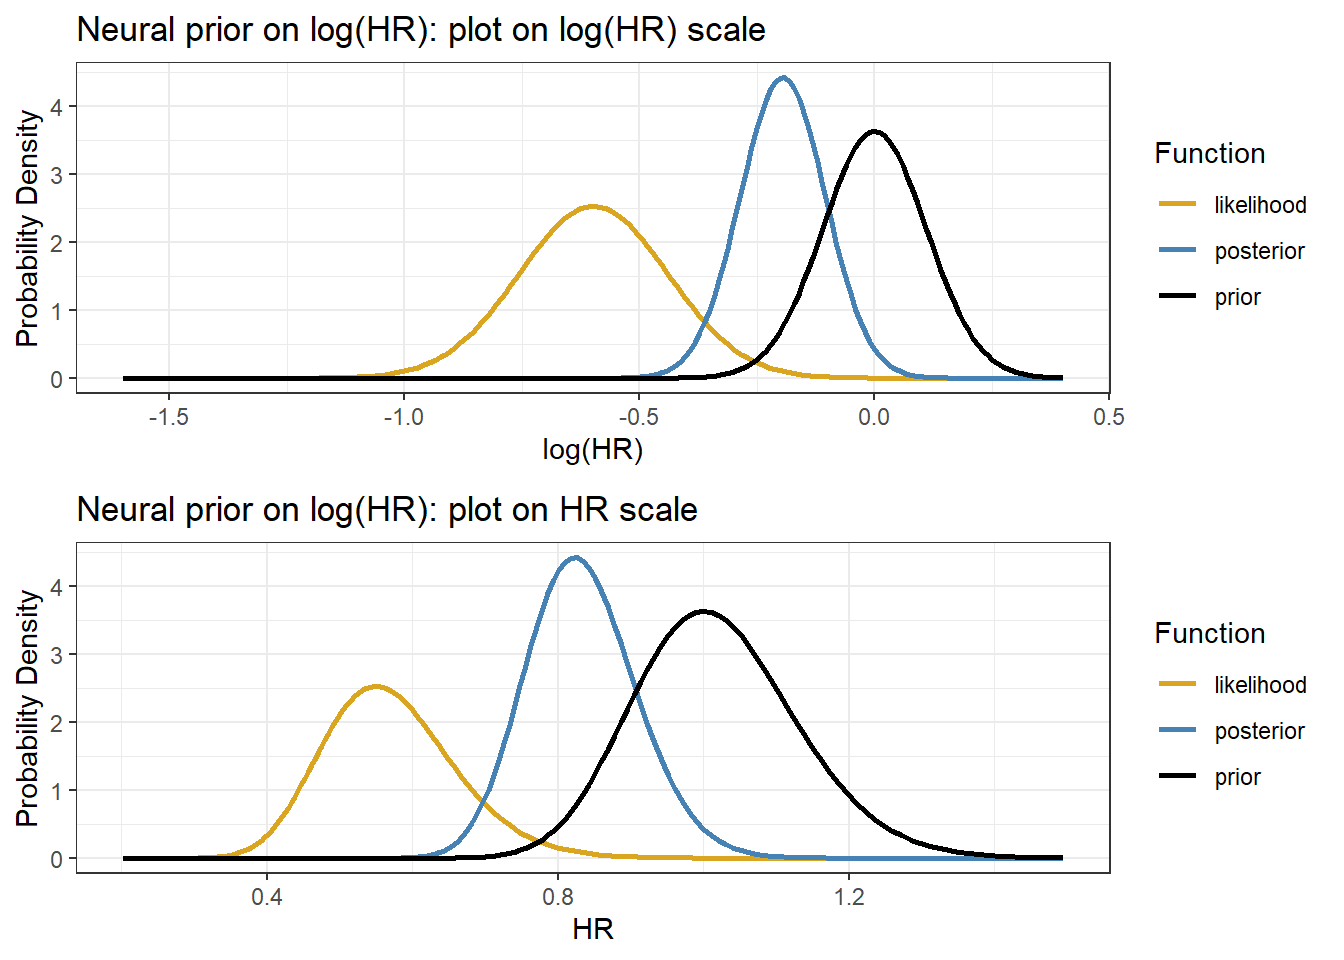
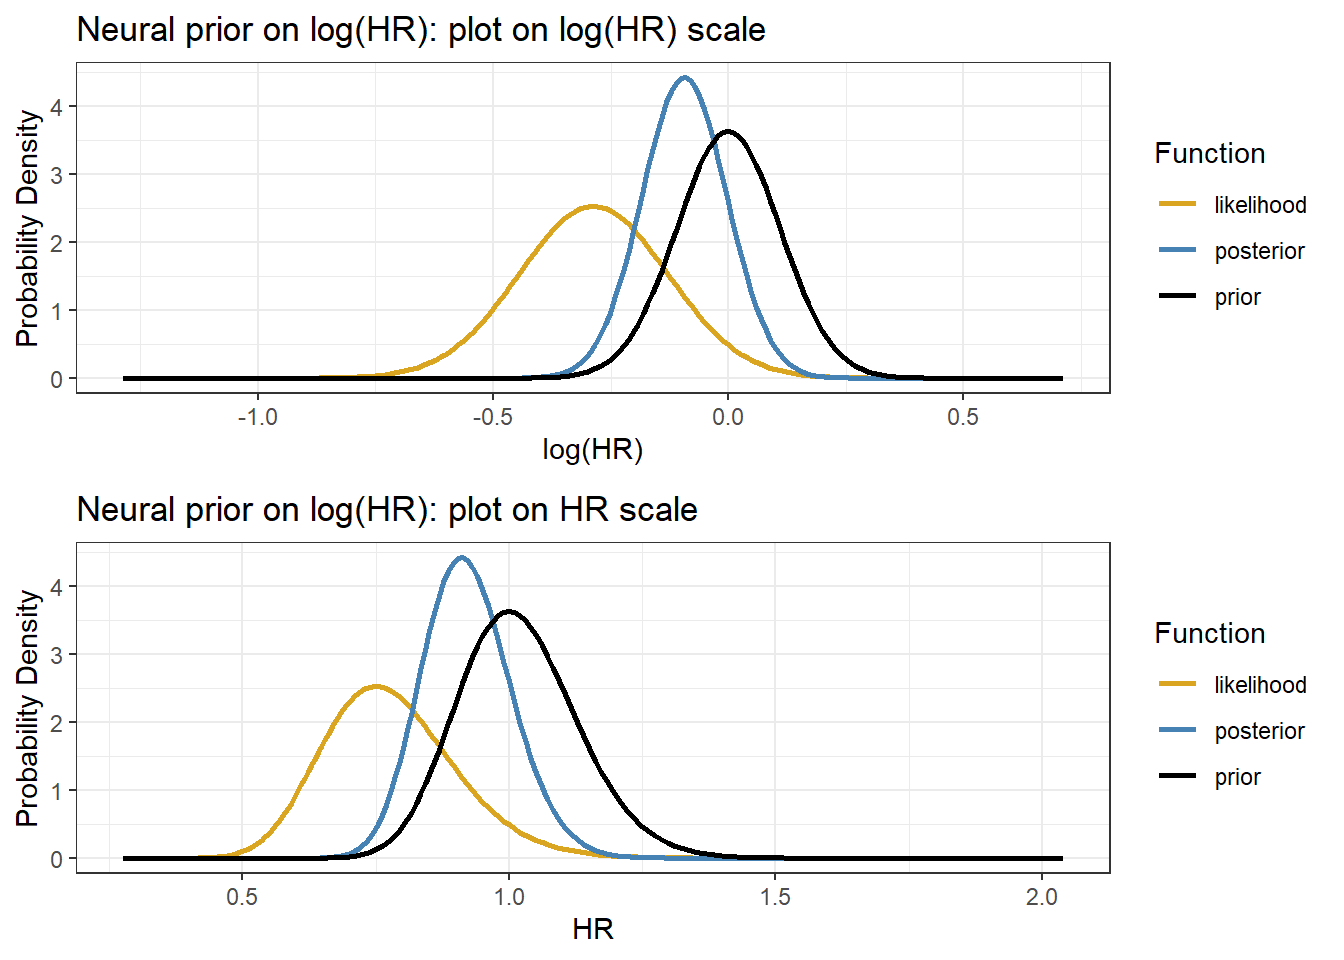
lecture 4 update error

diff --git a/docs/bayes.html b/docs/bayes.html
@@ -1063,7 +1063,7 @@ for on the log scale.</p></li>
 <span class="math display">\[ \sigma_0 = \frac{\log(1.25) - \log(0.8)}{2 \times 1.96} = 0.11\]</span></p></li>
 <li><p>We can express the prior normal distribution on log(HR) as
 <span class="math display">\[\theta \sim N(\mu_0 = 1, \sigma_0^2=0.11^2)\]</span></p></li>
-<li><p><strong>We specify normal prior for log(HR)! The prior distribution of HR</strong>. In probability theory, a lognormal distribution is a continuous probability distribution of a random variable whose logarithm is normally distributed. In this case, HR follows a lognormal distribution!</p></li>
+<li><p><strong>We specify normal prior for log(HR)!</strong>. In probability theory, a lognormal distribution is a continuous probability distribution of a random variable whose logarithm is normally distributed. In this case, HR follows a lognormal distribution!</p></li>
 </ul>
 <p><strong>3. The posterior of log(HR)</strong></p>
 <ul>
@@ -1088,7 +1088,7 @@ for on the log scale.</p></li>
 <span id="cb23-4"><a href="bayes.html#cb23-4" aria-hidden="true" tabindex="-1"></a>prec0 <span class="ot">&lt;-</span> <span class="dv">1</span><span class="sc">/</span>sd0<span class="sc">^</span><span class="dv">2</span></span>
 <span id="cb23-5"><a href="bayes.html#cb23-5" aria-hidden="true" tabindex="-1"></a></span>
 <span id="cb23-6"><a href="bayes.html#cb23-6" aria-hidden="true" tabindex="-1"></a><span class="co">#likelihood on log(HR);</span></span>
-<span id="cb23-7"><a href="bayes.html#cb23-7" aria-hidden="true" tabindex="-1"></a>ybar<span class="ot">&lt;-</span> <span class="sc">-</span><span class="fl">0.598</span></span>
+<span id="cb23-7"><a href="bayes.html#cb23-7" aria-hidden="true" tabindex="-1"></a>ybar<span class="ot">&lt;-</span> <span class="sc">-</span><span class="fl">0.287</span></span>
 <span id="cb23-8"><a href="bayes.html#cb23-8" aria-hidden="true" tabindex="-1"></a>sd.ybar<span class="ot">&lt;-</span> <span class="fl">0.158</span> </span>
 <span id="cb23-9"><a href="bayes.html#cb23-9" aria-hidden="true" tabindex="-1"></a>prec.y <span class="ot">&lt;-</span> <span class="dv">1</span><span class="sc">/</span>sd.ybar<span class="sc">^</span><span class="dv">2</span></span>
 <span id="cb23-10"><a href="bayes.html#cb23-10" aria-hidden="true" tabindex="-1"></a></span>
@@ -1136,7 +1136,7 @@ for on the log scale.</p></li>
 <span id="cb24-4"><a href="bayes.html#cb24-4" aria-hidden="true" tabindex="-1"></a>  <span class="fu">names</span>(res) <span class="ot">&lt;-</span> <span class="fu">c</span>(<span class="st">&quot;median&quot;</span>,<span class="st">&quot;q2.5&quot;</span>,<span class="st">&quot;q97.5&quot;</span>,<span class="fu">paste0</span>(<span class="st">&quot;Pr(OR &lt; &quot;</span>,thresholds,<span class="st">&quot;)&quot;</span>))</span>
 <span id="cb24-5"><a href="bayes.html#cb24-5" aria-hidden="true" tabindex="-1"></a>  res</span></code></pre></div>
 <pre><code>##       median         q2.5        q97.5   Pr(OR &lt; 1) Pr(OR &lt; 0.8) 
-##    0.8226500    0.6892421    0.9818799    0.9847110    0.3785609</code></pre>
+##    0.9105607    0.7628965    1.0868065    0.8503338    0.0757977</code></pre>
 </div>
 </div>
 </div>
